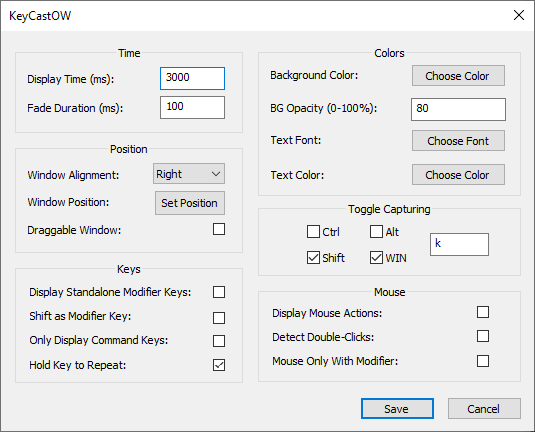
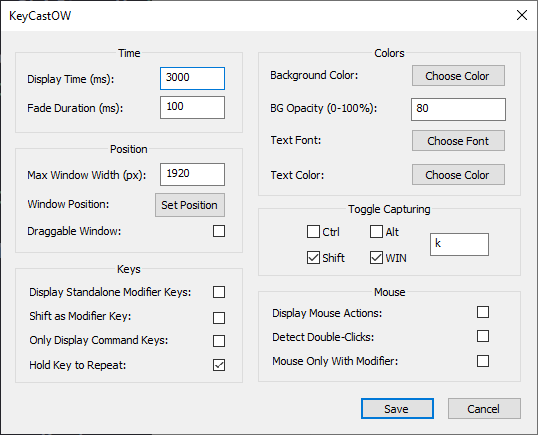
Update README.md

diff --git a/README.md b/README.md
@@ -16,7 +16,8 @@ Pressing <kbd>Backspace</kbd> will now delete the last character in the display 
 
 Modified settings:
   - The display label now uses a single value for "linger time," rather than separate values for keystroke delay and linger time.
-  - Combination characters are now hard-coded to `<+>` (e.g., `<Ctrl+a>`)
+  - The maximum width of the display label is now configurable and will default to width of the user's display.
+    - When using this setting, set your desired max width and then click the "Set Position" button to choose a location for the display label. Updating the label position with "Set Position" is currently required due to how the program updates the size of the display label.
   - Display time (previously "linger time") now has a maximum value of 60,000ms (60 seconds)
   - Fade duration now has a maximum value of 2,000ms (2 seconds)
   - Background opacity is now a percentage value rather than a 0-255 value
@@ -24,16 +25,17 @@ Modified settings:
 Removed settings:
   - Display border
   - Display corner rounding
+  - Display alignment -- now defaults to right
   - Text opacity
   - Label preview
-  - Maximum lines (only one display label is used)
+  - Maximum lines -- only one display label is used
   - Label spacing
   - Branding
-  - Combination characters
+  - Combination characters -- now hard-coded to `<+>` (e.g., `<Ctrl+a>`)
 
 ## Known Issues
 
-I didn't want the display label spanning my entire screen, so I made a code change that leaves some space on the left side of my screen. Unfortunately, this empty space is relative to the left edge of the screen, so positioning the display label anywhere other than near the right edge of the screen will shorten the maximum length of the display label. At some point, I may try making the width of the display label configurable.
+- Dragging the display label using the "Draggable Window" option can cause the program to slow down (e.g., the display label will linger for longer than desired and will also take longer to fade out). This issue existed in the original software and was not introduced in this fork.
 
 ## Build
 
